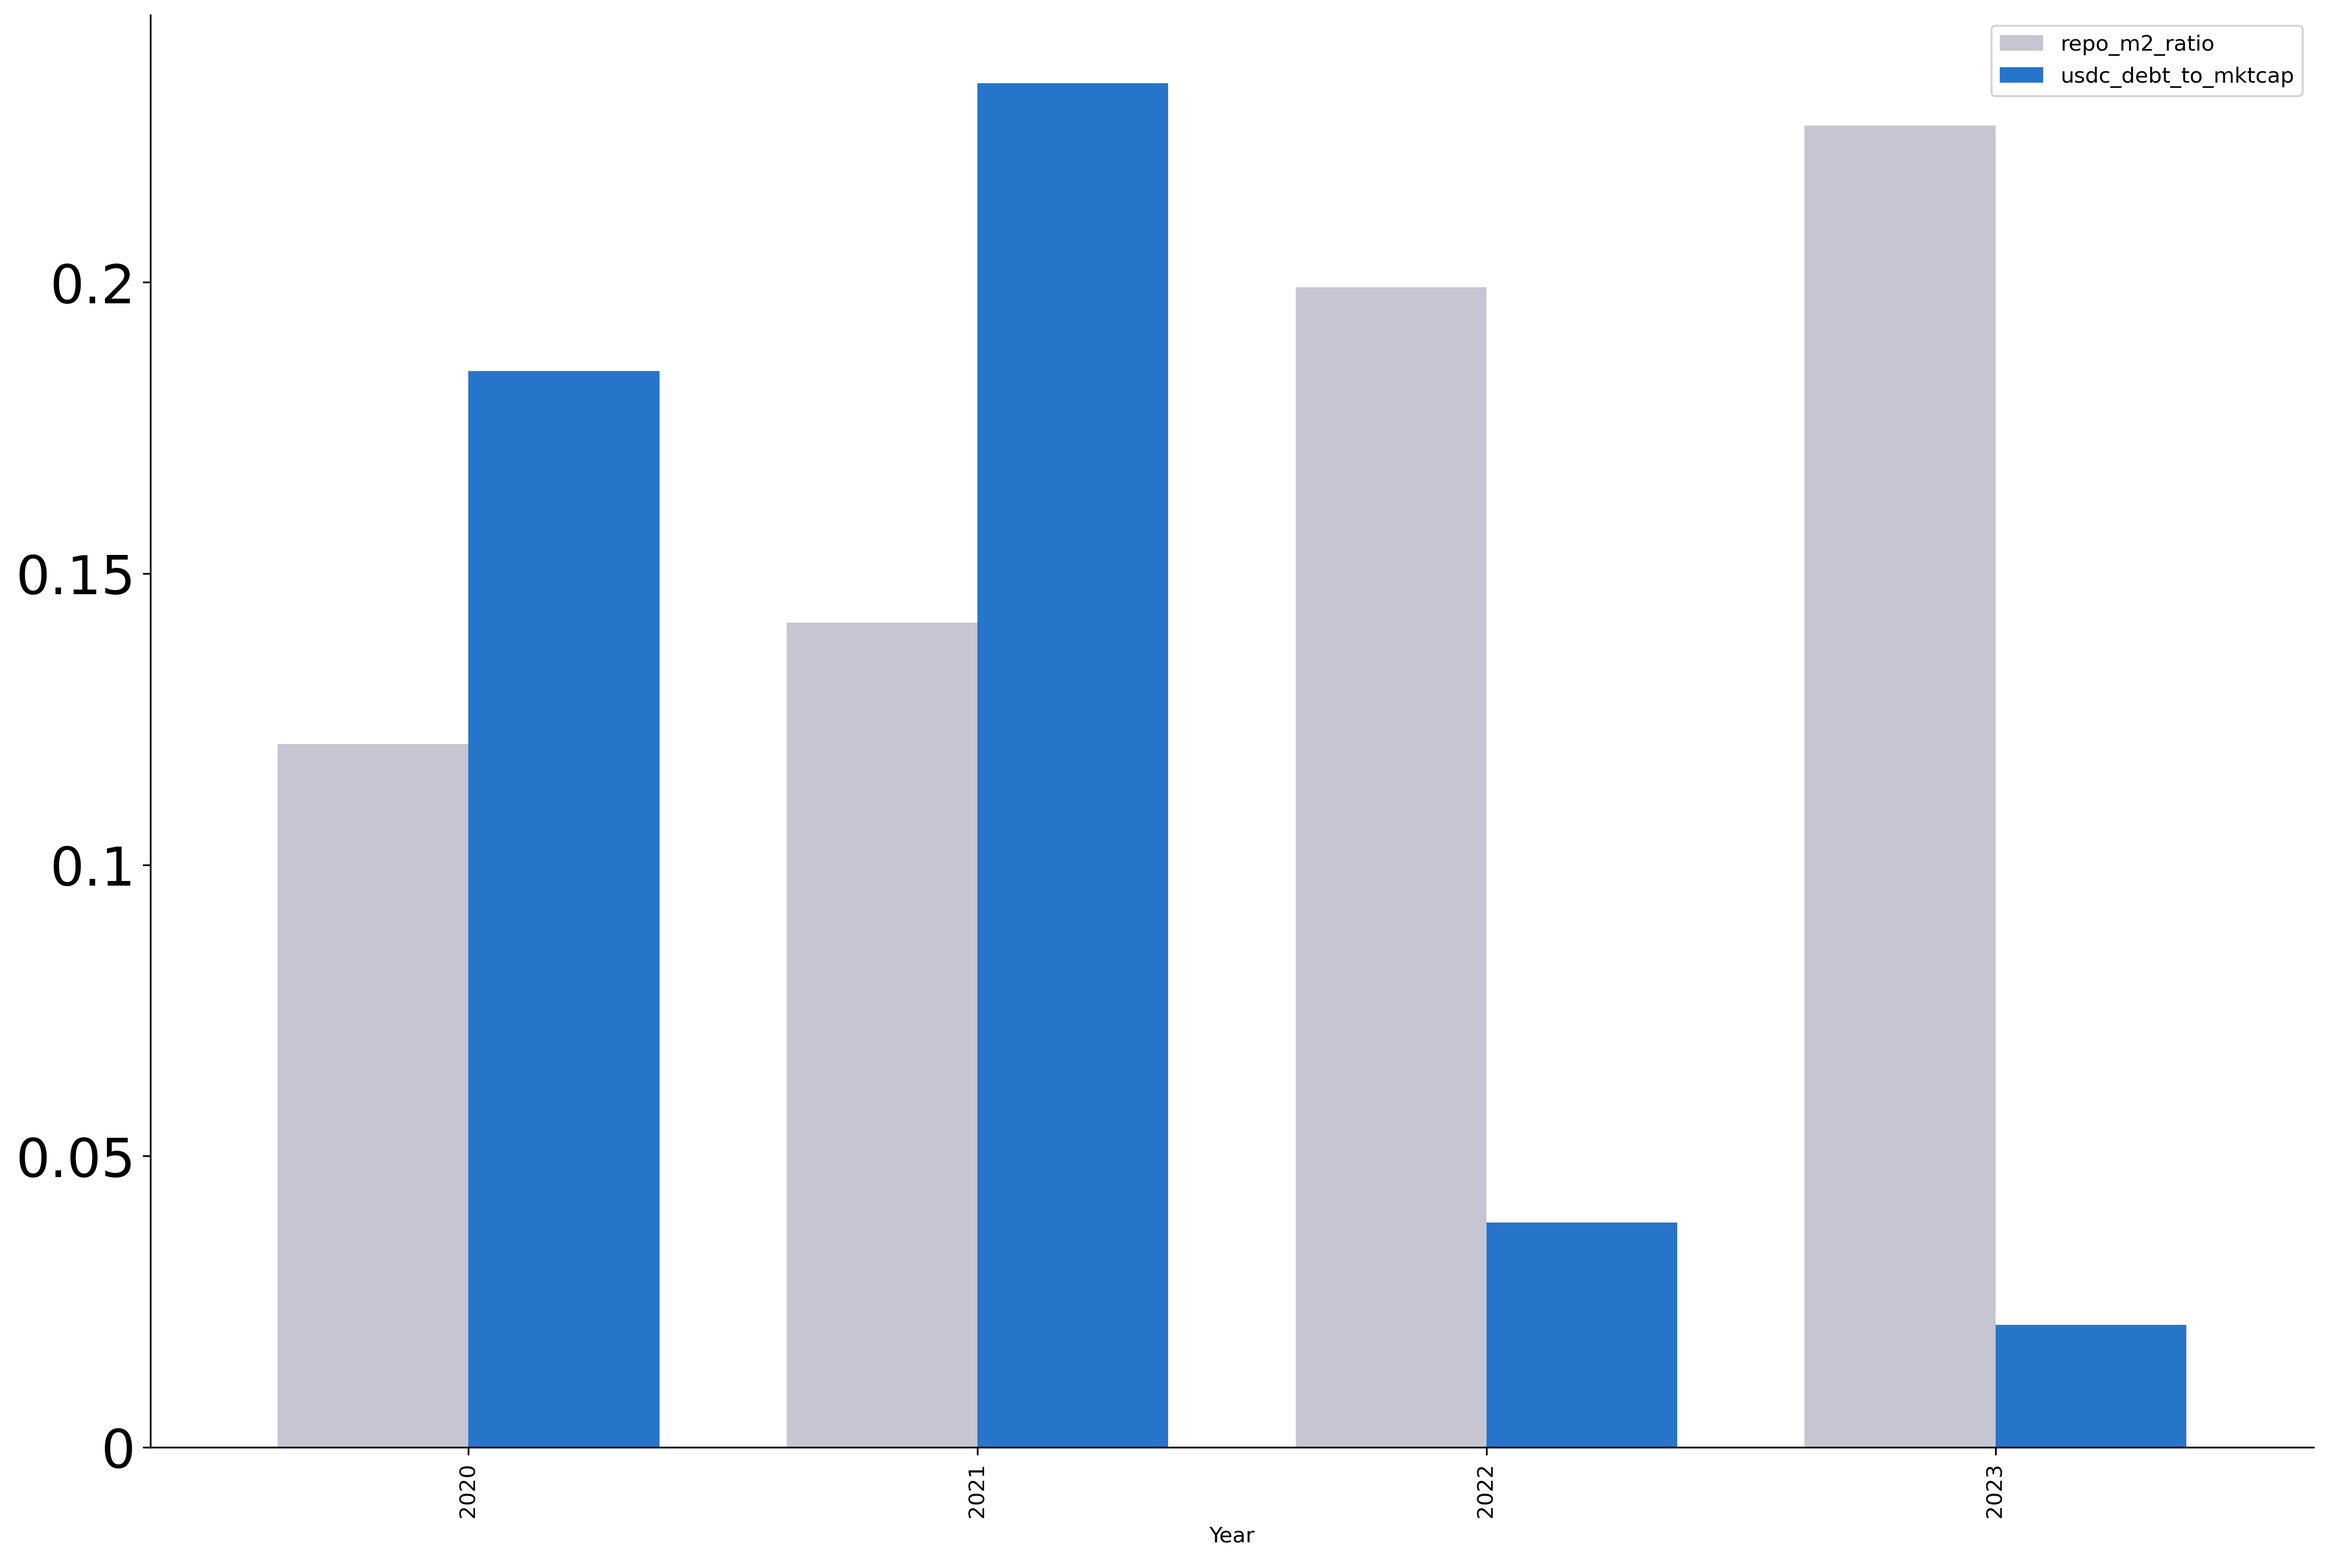
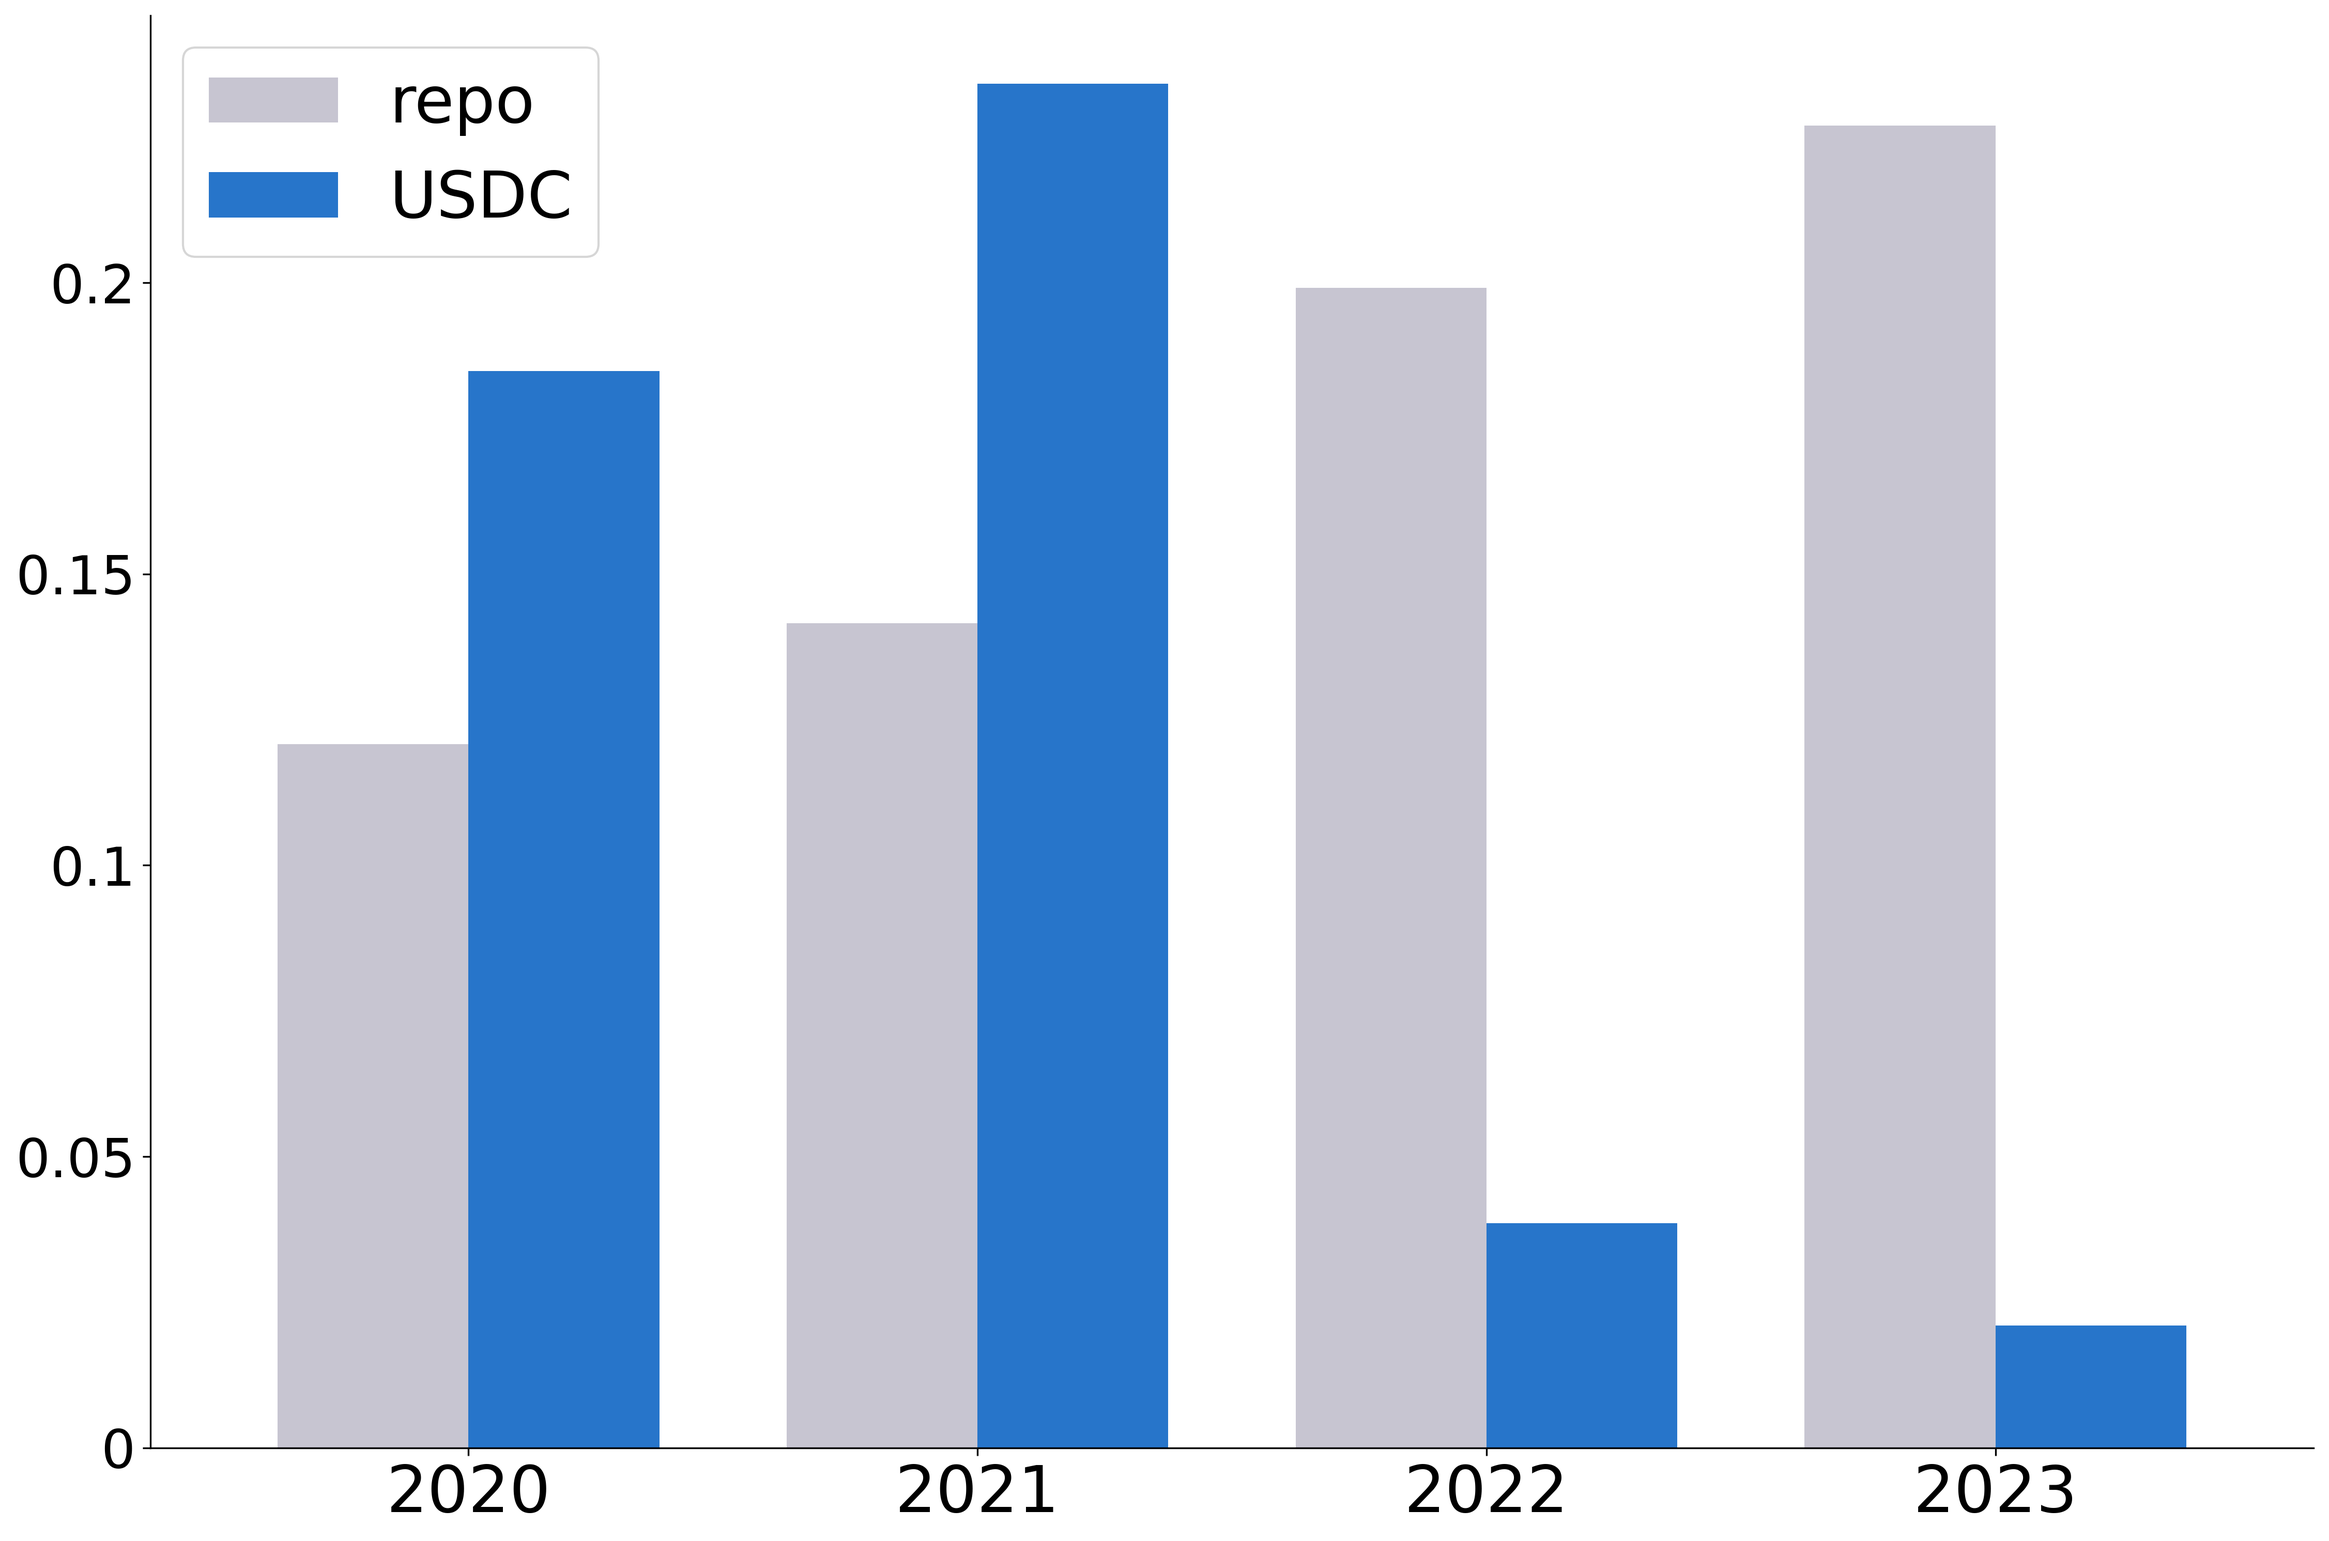
refactor figure 7

diff --git a/code/figure7_time_series_debt_to_circulations.py b/code/figure7_time_series_debt_to_circulations.py
@@ -60,6 +60,9 @@ def plot_ts_debt_to_circulation(start_date, end_date):
         usdc_debt_to_mktcap_ratio, how="left", left_index=True, right_index=True
     )
     combined = combined[["repo_m2_ratio", "usdc_debt_to_mktcap"]]
+    combined.rename(
+        columns={"usdc_debt_to_mktcap": "USDC", "repo_m2_ratio": "repo"}, inplace=True
+    )
     resampled_combined = combined.resample("Y").mean()
     resampled_combined.index = resampled_combined.index.year
     print(resampled_combined)
@@ -78,7 +81,6 @@ def plot_ts_debt_to_circulation(start_date, end_date):
         color=["#c7c5d1", "#2775ca"],
         width=0.75,
         legend=True,
-        xlabel="Year",
     )
 
     ax.spines["top"].set_visible(False)
@@ -86,7 +88,8 @@ def plot_ts_debt_to_circulation(start_date, end_date):
 
     ax.set_yticks([0, 0.05, 0.1, 0.15, 0.2])
     ax.set_yticklabels([0, 0.05, 0.1, 0.15, 0.2], fontsize=25, font="Proxima Nova")
-    # plt.show()
+    plt.xticks(rotation=0, fontsize=30)
+    ax.legend(fontsize=30, loc="upper left")
     plt.savefig("../output/Figure7.png", format="png", dpi=300, bbox_inches="tight")
 
 
